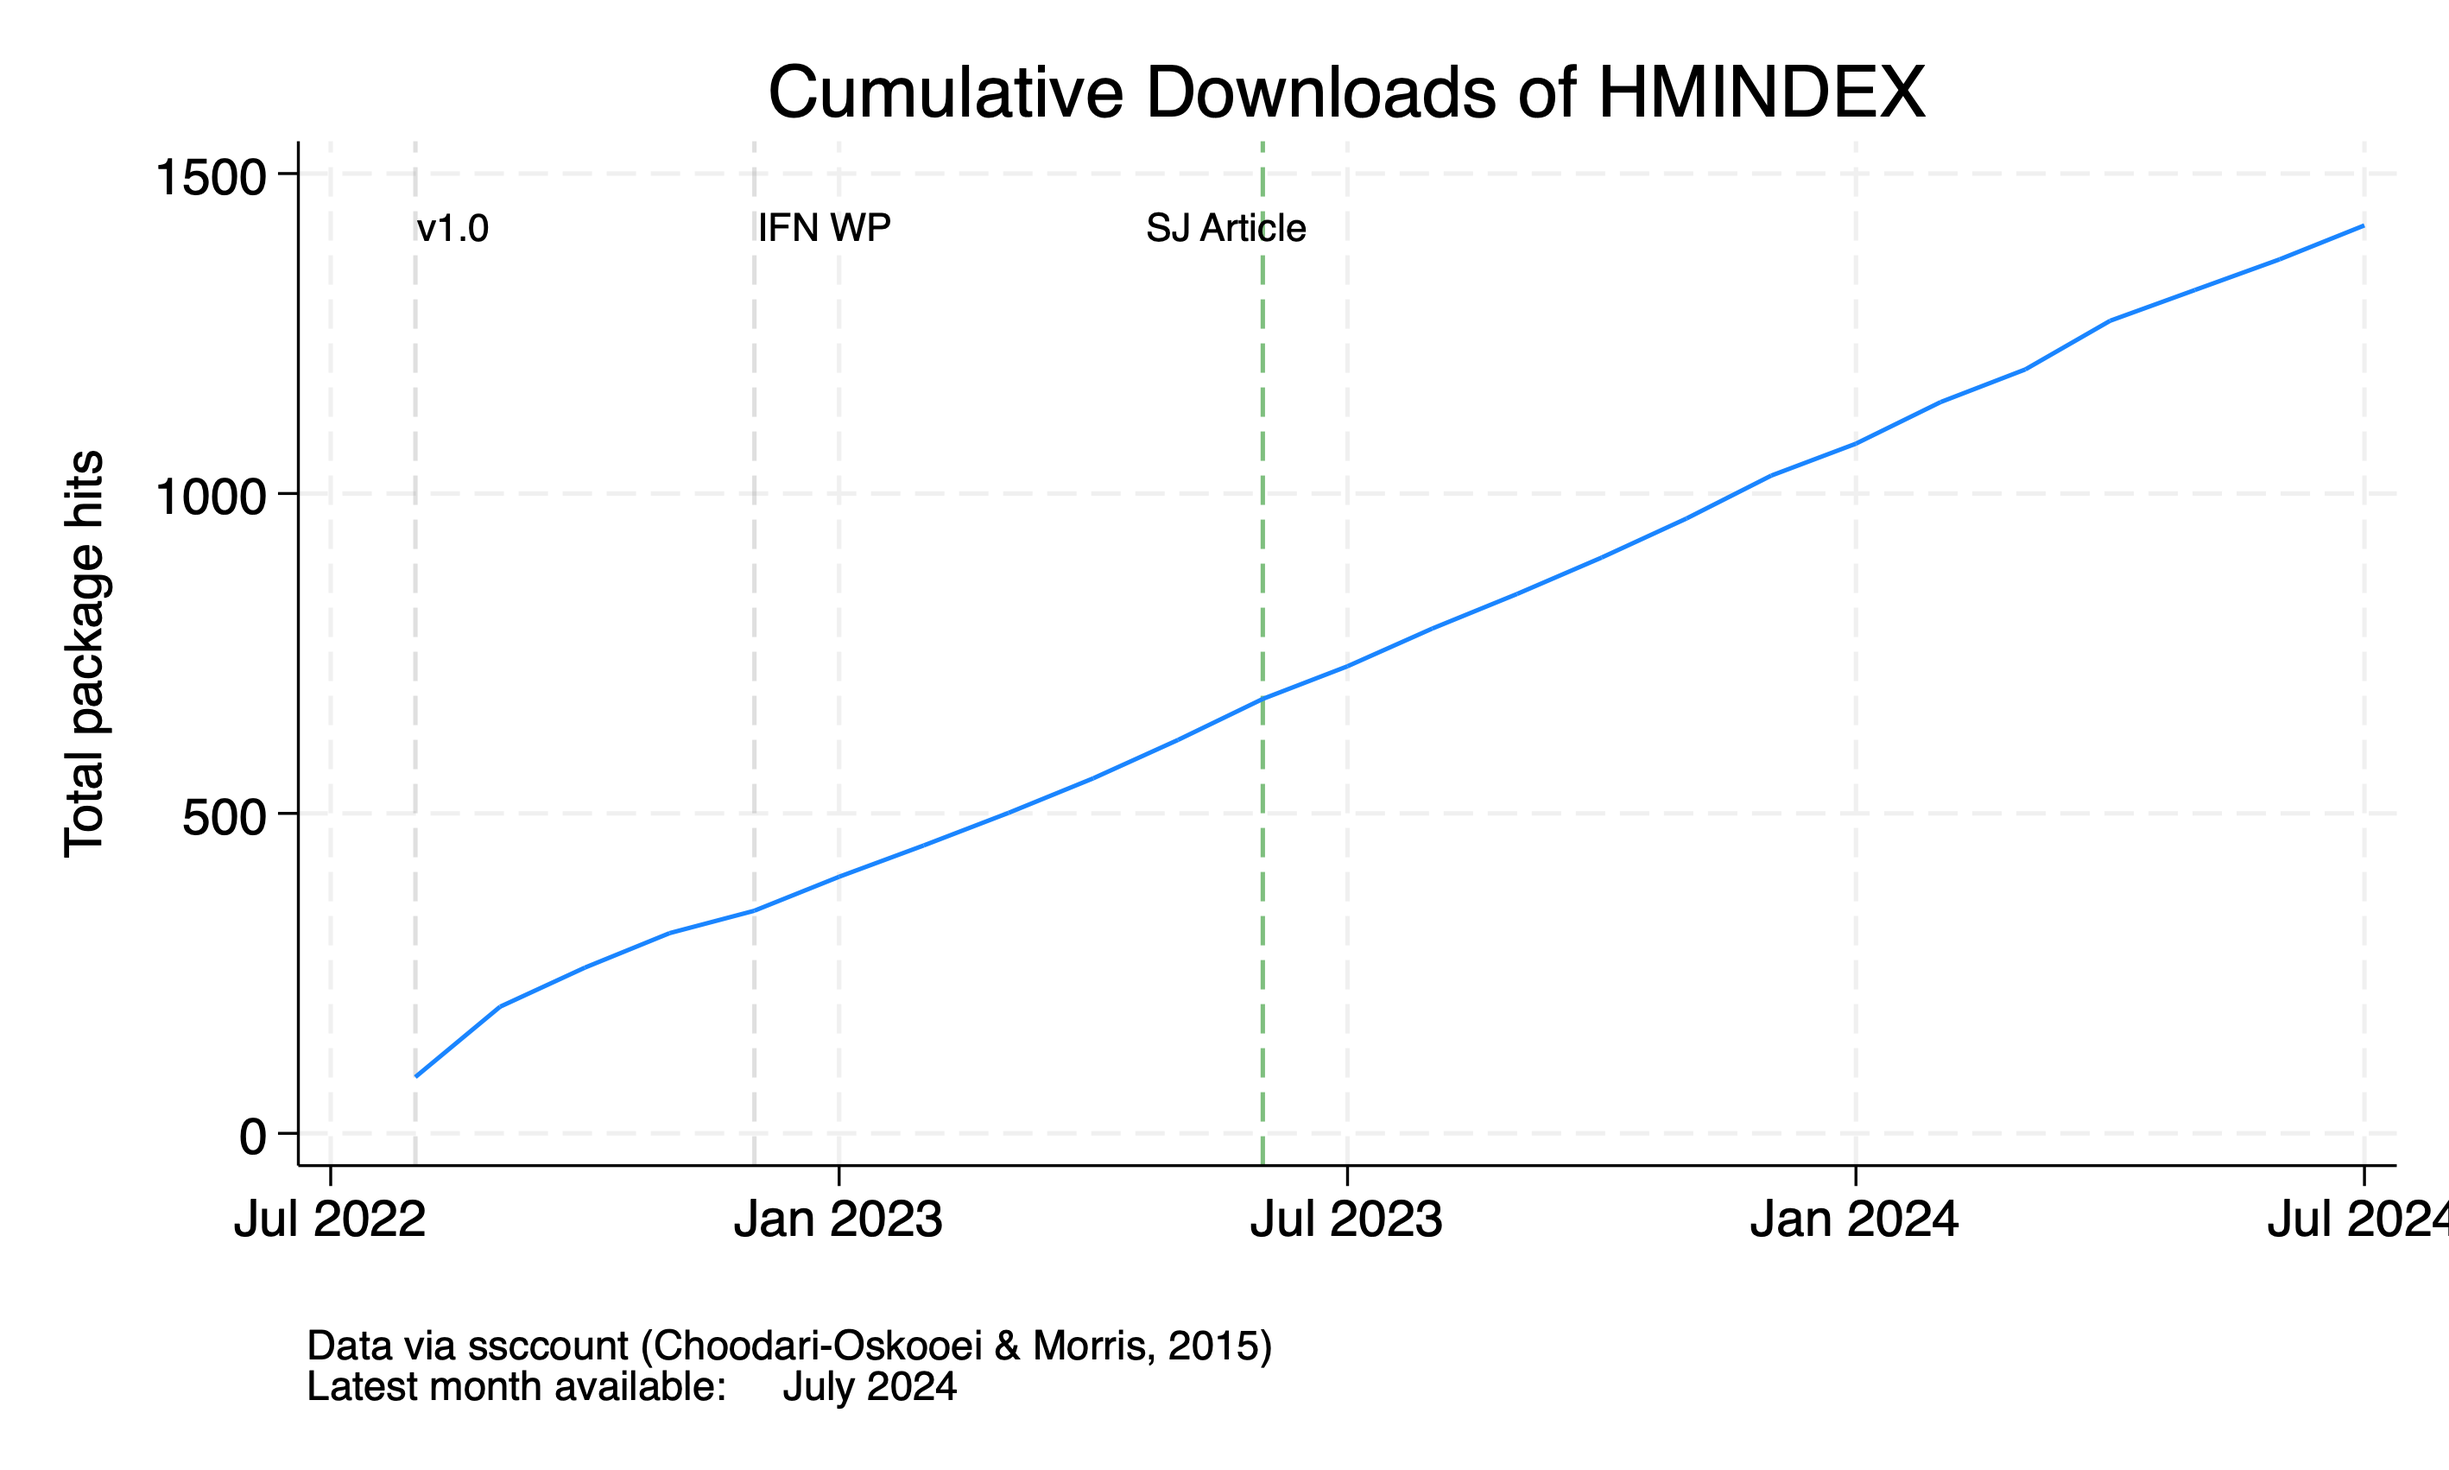
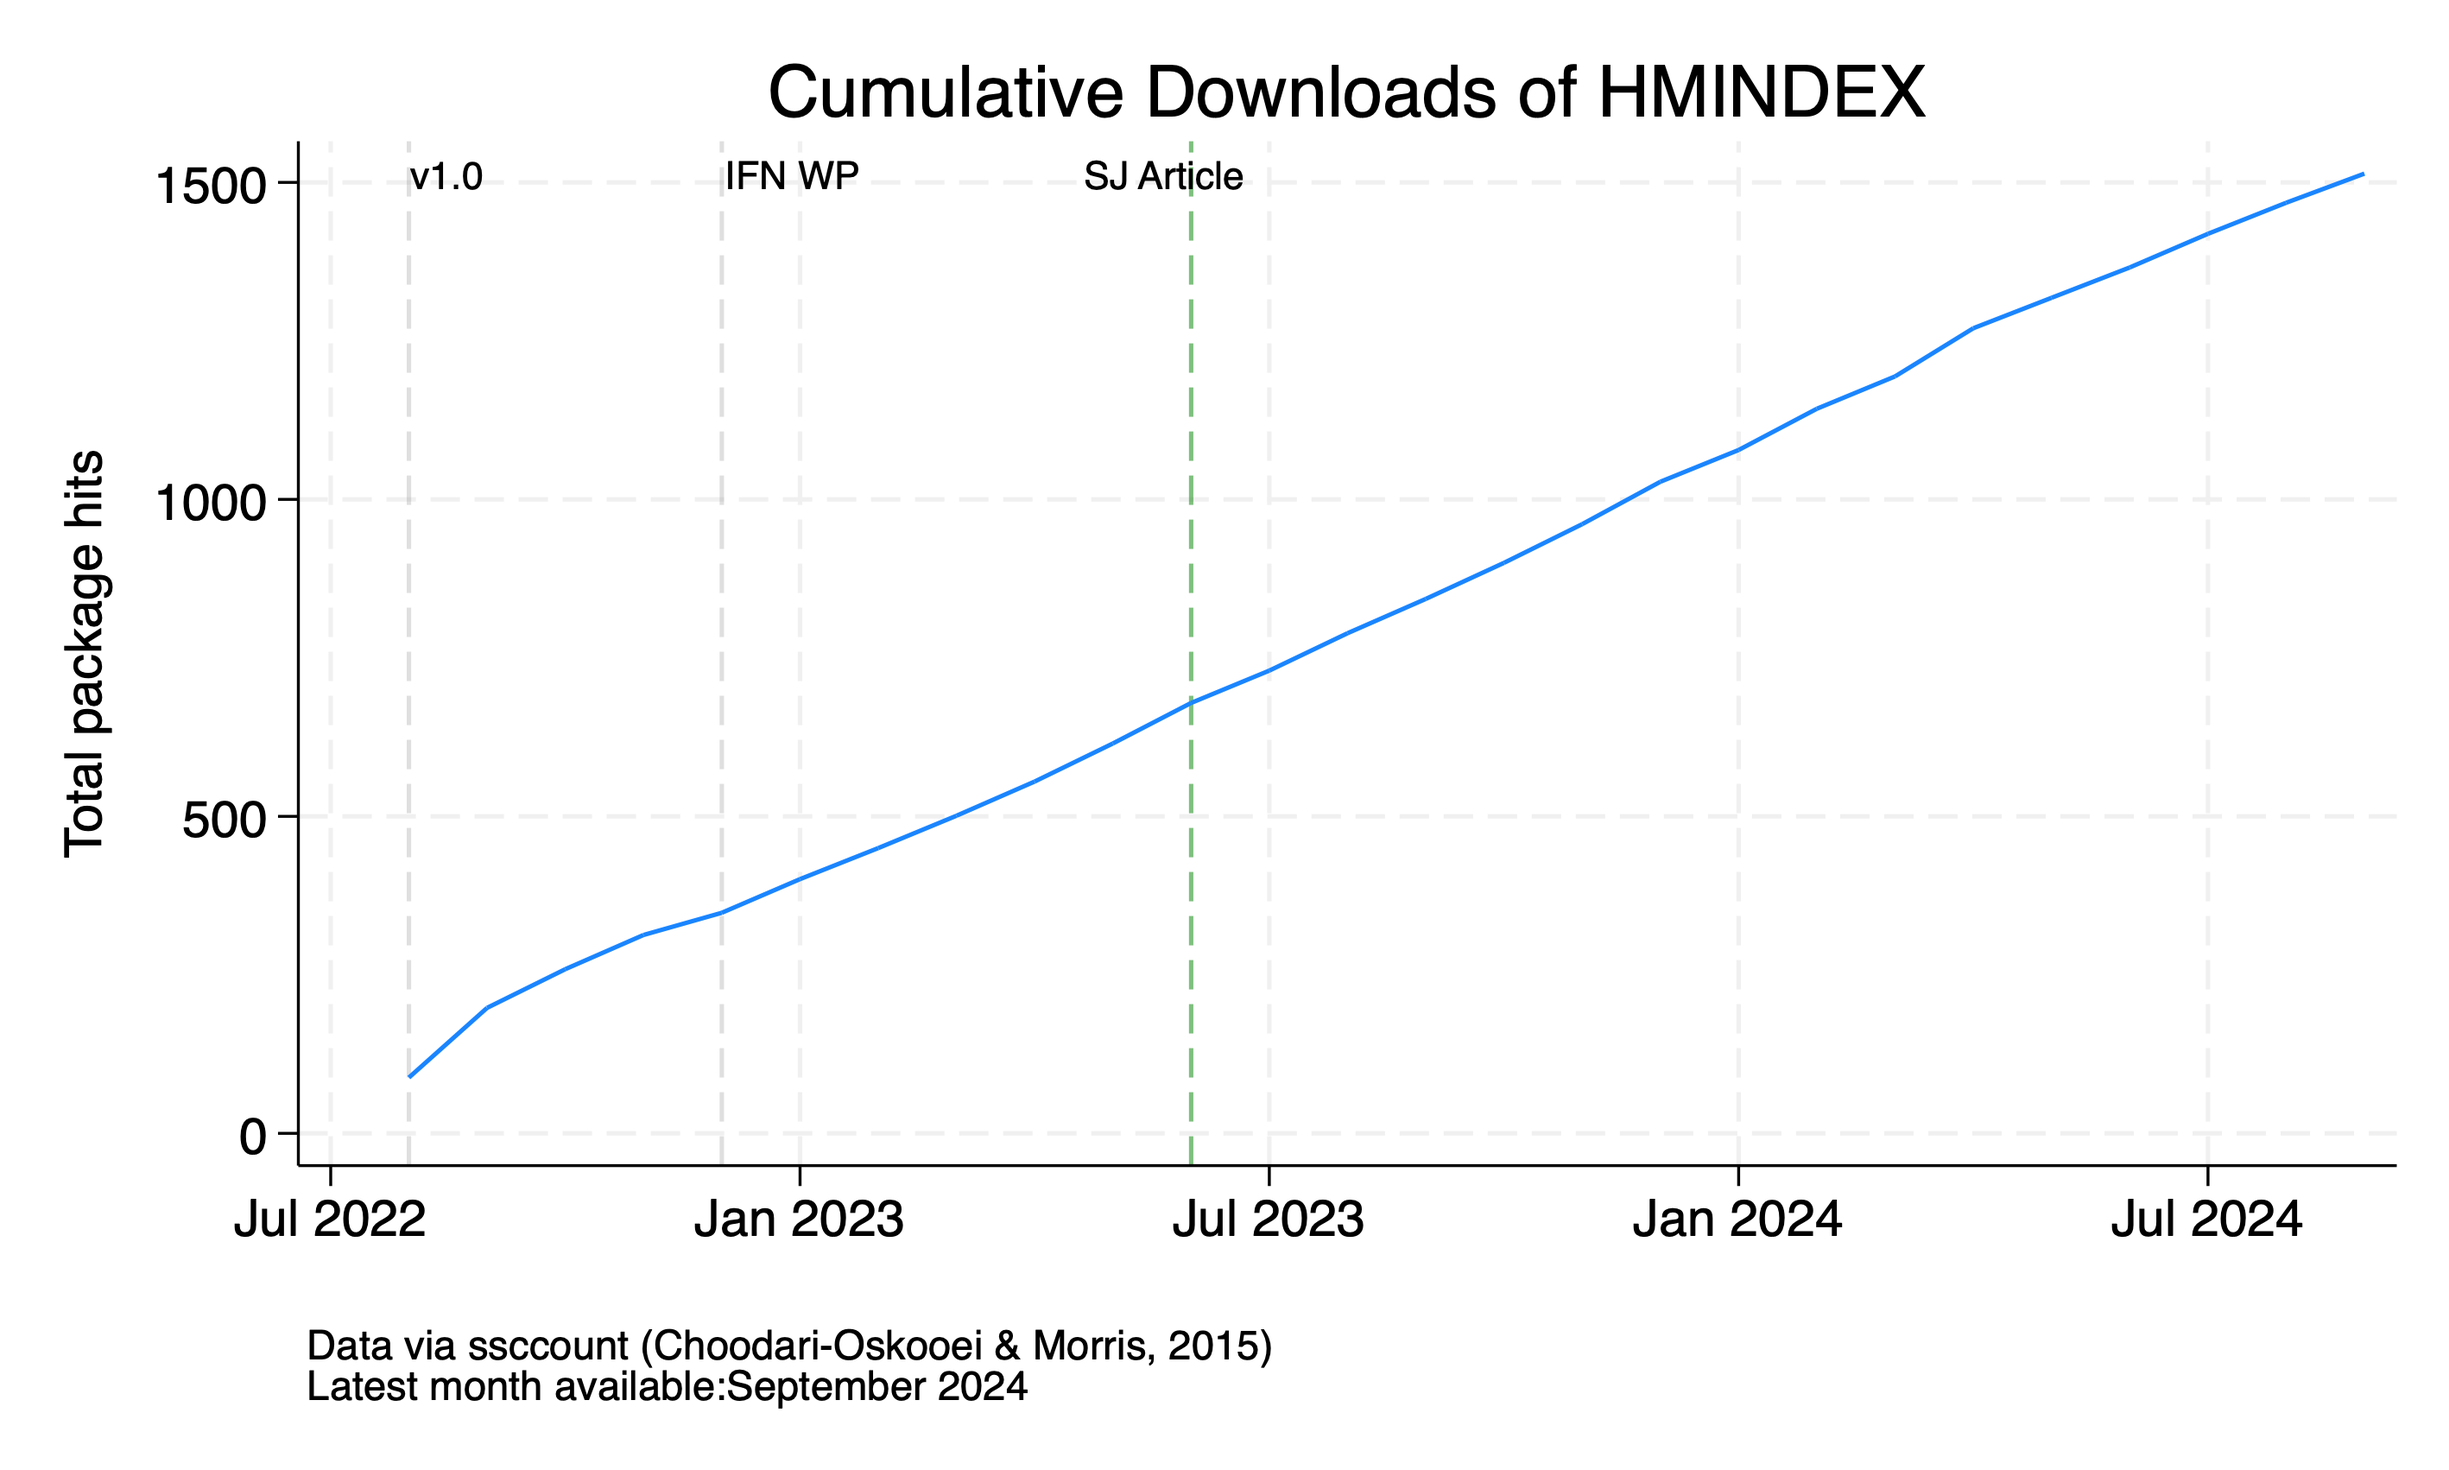
update npkghit

diff --git a/_posts/2022-07-01-rpaxioms.md b/_posts/2022-07-01-rpaxioms.md
@@ -17,7 +17,7 @@ household-level aggregate consumption data.
 ## Citation
 Demetry, M., Hjertstrand, P. and Polisson, M., 2022. Testing axioms of revealed preference in Stata. <i>The Stata Journal</i>, 22(2), pp.319-343.
 
-## Total downloads: 2,715
+## Total downloads: 2,828
 <img src="/assets/img/rpaxioms_cumulative_hits.png" alt="number of downloads" width="100%"/>
 
 <details>

diff --git a/_posts/2022-12-01-hmindex.md b/_posts/2022-12-01-hmindex.md
@@ -13,7 +13,7 @@ note introduces the _Stata_ command __hmindex__, which calculates the Houtman-Ma
 prices and observed choices of a consumer. The command is illustrated with an empirical application.
 
 
-## Total downloads: 1,419
+## Total downloads: 1,514
 <img src="/assets/img/hmindex_cumulative_hits.png" alt="number of downloads" width="100%"/>
 
 
